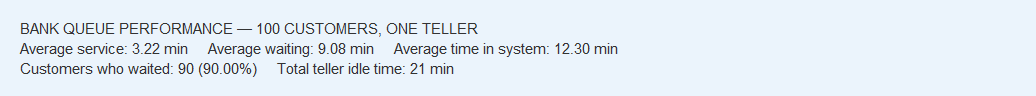
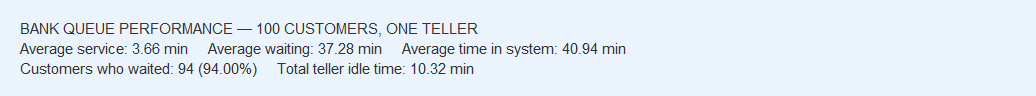
Use continuous uniform times and refresh evidence

diff --git a/BankQueueSimulation.java b/BankQueueSimulation.java
@@ -42,10 +42,10 @@ public class BankQueueSimulation {
         JPanel form = new JPanel(new GridLayout(5, 2, 12, 14));
         form.setBackground(Color.WHITE);
         customersField = addField(form, "Total customers", "100");
-        minArrivalField = addField(form, "Minimum interarrival (min)", "1");
-        maxArrivalField = addField(form, "Maximum interarrival (min)", "5");
-        minServiceField = addField(form, "Minimum service (min)", "1");
-        maxServiceField = addField(form, "Maximum service (min)", "6");
+        minArrivalField = addField(form, "Minimum interarrival (min)", "1.0");
+        maxArrivalField = addField(form, "Maximum interarrival (min)", "5.0");
+        minServiceField = addField(form, "Minimum service (min)", "1.0");
+        maxServiceField = addField(form, "Maximum service (min)", "6.0");
         page.add(form, BorderLayout.CENTER);
 
         JButton run = new JButton("Run Simulation");
@@ -70,58 +70,66 @@ public class BankQueueSimulation {
     private void runSimulation() {
         try {
             int count = Integer.parseInt(customersField.getText().trim());
-            int minArrival = Integer.parseInt(minArrivalField.getText().trim());
-            int maxArrival = Integer.parseInt(maxArrivalField.getText().trim());
-            int minService = Integer.parseInt(minServiceField.getText().trim());
-            int maxService = Integer.parseInt(maxServiceField.getText().trim());
+            double minArrival = Double.parseDouble(minArrivalField.getText().trim());
+            double maxArrival = Double.parseDouble(maxArrivalField.getText().trim());
+            double minService = Double.parseDouble(minServiceField.getText().trim());
+            double maxService = Double.parseDouble(maxServiceField.getText().trim());
             if (count < 1 || count > 10000 || minArrival < 1 || minService < 1
                     || maxArrival < minArrival || maxService < minService
-                    || maxArrival > 10000 || maxService > 10000) {
+                    || maxArrival > 10000 || maxService > 10000
+                    || !Double.isFinite(minArrival) || !Double.isFinite(maxArrival)
+                    || !Double.isFinite(minService) || !Double.isFinite(maxService)) {
                 throw new NumberFormatException();
             }
 
             Random random = new Random();
             Object[][] rows = new Object[count][8];
-            int arrival = 0, previousDeparture = 0;
-            int totalService = 0, totalWait = 0, totalSystem = 0, totalIdle = 0, waited = 0;
+            double arrival = 0, previousDeparture = 0;
+            double totalService = 0, totalWait = 0, totalSystem = 0, totalIdle = 0;
+            int waited = 0;
 
             for (int i = 0; i < count; i++) {
-                int interarrival = random.nextInt(maxArrival - minArrival + 1) + minArrival;
-                int service = random.nextInt(maxService - minService + 1) + minService;
+                double interarrival = minArrival + random.nextDouble() * (maxArrival - minArrival);
+                double service = minService + random.nextDouble() * (maxService - minService);
                 arrival += interarrival;
-                int start = Math.max(arrival, previousDeparture);
-                int wait = start - arrival;
-                int departure = start + service;
-                int inSystem = departure - arrival;
+                double start = Math.max(arrival, previousDeparture);
+                double wait = start - arrival;
+                double departure = start + service;
+                double inSystem = departure - arrival;
 
                 totalIdle += Math.max(0, arrival - previousDeparture);
                 totalService += service;
                 totalWait += wait;
                 totalSystem += inSystem;
                 if (wait > 0) waited++;
-                rows[i] = new Object[]{i + 1, interarrival, arrival, service,
-                        start, wait, departure, inSystem};
+                rows[i] = new Object[]{i + 1, minutes(interarrival), minutes(arrival),
+                        minutes(service), minutes(start), minutes(wait),
+                        minutes(departure), minutes(inSystem)};
                 previousDeparture = departure;
             }
             showResults(rows, count, totalService, totalWait, totalSystem, totalIdle, waited);
         } catch (NumberFormatException ex) {
             JOptionPane.showMessageDialog(frame,
-                    "Enter whole numbers from 1 to 10,000; each minimum must be no greater than its maximum.",
+                    "Enter 1–10,000 customers and positive decimal time limits; each minimum must not exceed its maximum.",
                     "Check the inputs", JOptionPane.ERROR_MESSAGE);
         }
     }
 
-    private void showResults(Object[][] rows, int count, int totalService, int totalWait,
-                             int totalSystem, int totalIdle, int waited) {
+    private static String minutes(double value) {
+        return String.format(java.util.Locale.US, "%.2f", value);
+    }
+
+    private void showResults(Object[][] rows, int count, double totalService, double totalWait,
+                             double totalSystem, double totalIdle, int waited) {
         JDialog results = new JDialog(frame, "Simulation Results", false);
         results.setLayout(new BorderLayout(0, 12));
 
-        JTextArea summary = new JTextArea(String.format(
+        JTextArea summary = new JTextArea(String.format(java.util.Locale.US,
                 "BANK QUEUE PERFORMANCE — %d CUSTOMERS, ONE TELLER%n" +
                 "Average service: %.2f min     Average waiting: %.2f min     Average time in system: %.2f min%n" +
-                "Customers who waited: %d (%.2f%%)     Total teller idle time: %d min",
-                count, totalService / (double) count, totalWait / (double) count,
-                totalSystem / (double) count, waited, waited * 100.0 / count, totalIdle));
+                "Customers who waited: %d (%.2f%%)     Total teller idle time: %.2f min",
+                count, totalService / count, totalWait / count,
+                totalSystem / count, waited, waited * 100.0 / count, totalIdle));
         summary.setEditable(false);
         summary.setFont(new Font("SansSerif", Font.PLAIN, 15));
         summary.setBackground(new Color(235, 244, 252));
@@ -132,7 +140,6 @@ public class BankQueueSimulation {
                 "Start", "Wait", "Departure", "In system"};
         JTable table = new JTable(rows, columns);
         table.setRowHeight(24);
-        table.setAutoCreateRowSorter(true);
         table.setFillsViewportHeight(true);
         results.add(new JScrollPane(table), BorderLayout.CENTER);
 

diff --git a/README.md b/README.md
@@ -9,7 +9,7 @@
 
 ## What the program does
 
-The bank has **one teller** and serves customers in arrival order. The setup screen defaults to 100 customers, interarrival times of 1–5 minutes, and service times of 1–6 minutes. The results screen shows the complete customer table and the queue statistics requested in the assignment.
+The bank has **one teller** and serves customers in arrival order. The setup screen defaults to 100 customers, interarrival times uniformly sampled between 1.0 and 5.0 minutes, and service times uniformly sampled between 1.0 and 6.0 minutes. Times are continuous decimal values, displayed to two decimal places. The results screen shows the complete customer table and the queue statistics requested in the assignment.
 
 ## Run in PowerShell
 
@@ -27,7 +27,7 @@ $env:Path = "C:\Program Files\Eclipse Adoptium\jdk-21.0.12.101-hotspot\bin;$env:
 ## How to explain the code
 
 1. `showSetup` creates the input screen for customer count and the two random time ranges.
-2. `runSimulation` checks the inputs, then generates each customer's interarrival and service time.
+2. `runSimulation` checks the inputs, then generates each customer's interarrival and service time with `minimum + random value × (maximum − minimum)`.
 3. Each new arrival time is the previous arrival plus the generated interarrival time. Service starts at the later of the customer's arrival and the previous customer's departure.
 4. Waiting time is service start minus arrival. Departure is service start plus service time. The program totals these values and teller idle time.
 5. `showResults` displays the customer table and calculates averages by dividing totals by the customer count. The waiting percentage is the number who waited divided by the customer count.
